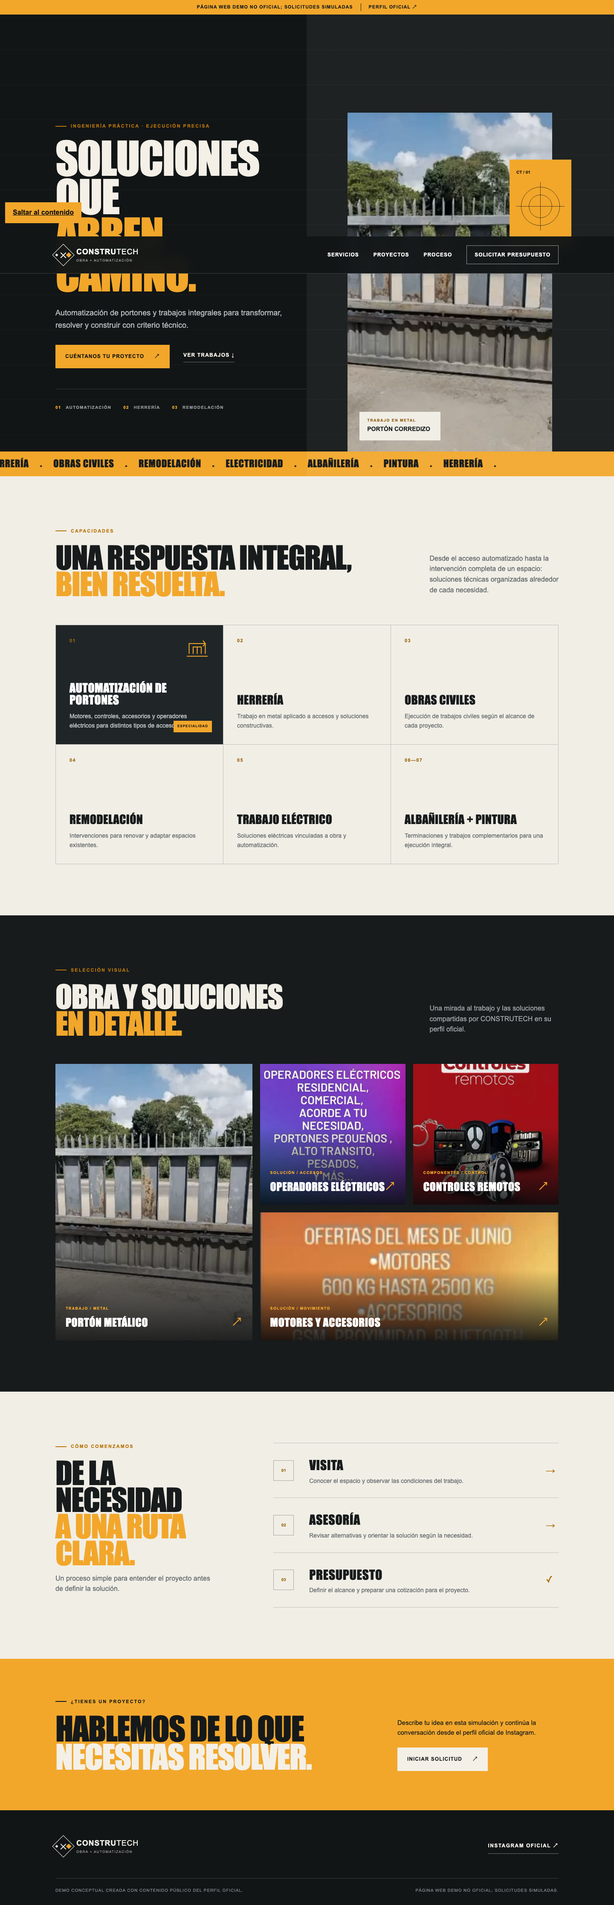
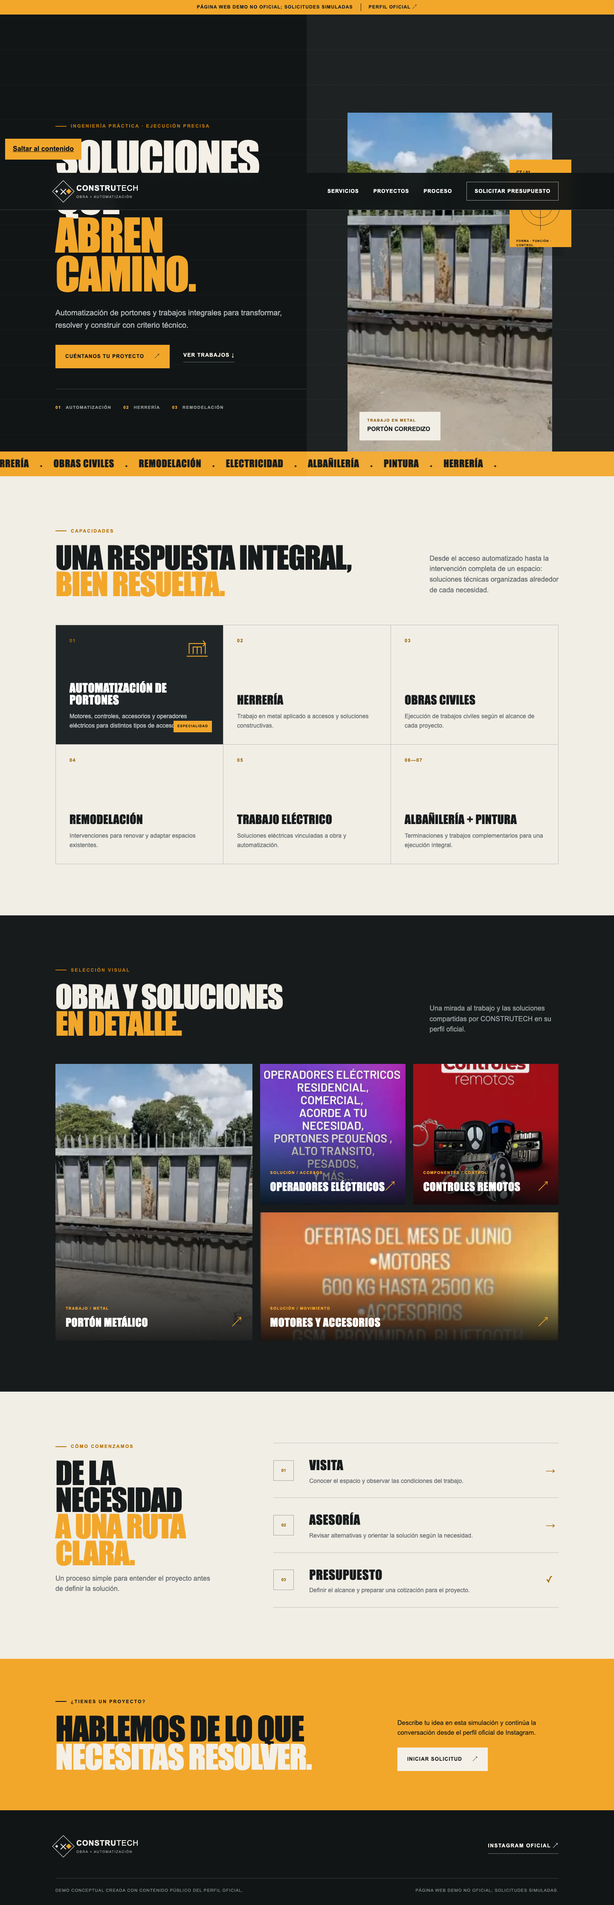
Refine industrial visual experience

Changed region(s): [[0.5625, 0.0934, 0.9375, 0.1557], [0.0, 0.0623, 0.3125, 0.1557]]

diff --git a/assets/css/styles.css b/assets/css/styles.css
@@ -1,3 +1,252 @@
-@font-face{font-family:system-condensed;src:local("Arial Narrow");font-stretch:condensed}*{box-sizing:border-box}html{scroll-behavior:smooth}body{margin:0;background:#f1eee6;color:#171b1c;font-family:Arial,Helvetica,sans-serif;font-size:16px;line-height:1.55}body.is-locked{overflow:hidden}button,input,textarea{font:inherit}button,a{color:inherit}button{cursor:pointer}.shell{width:min(1180px,calc(100% - 40px));margin-inline:auto}.skip-link{position:fixed;left:12px;top:-80px;z-index:200;background:#f2a72b;color:#111;padding:12px 18px;font-weight:800}.skip-link:focus{top:12px}.demo-notice{height:34px;background:#f2a72b;color:#171b1c;display:flex;align-items:center;justify-content:center;gap:18px;padding:0 18px;font-size:11px;font-weight:800;letter-spacing:.08em;text-transform:uppercase}.demo-notice a{border-left:1px solid #171b1c;padding-left:18px;text-decoration:none}.site-header{position:absolute;top:34px;left:0;right:0;z-index:40;color:#fff;border-bottom:1px solid rgba(255,255,255,.18)}.site-header.is-scrolled{position:fixed;top:0;background:rgba(17,21,22,.96);backdrop-filter:blur(12px)}.nav-wrap{height:86px;display:flex;align-items:center;justify-content:space-between}.brand{display:inline-flex;align-items:center;gap:12px;text-decoration:none;font-size:18px;font-weight:300;letter-spacing:.04em}.brand b{font-weight:900}.brand small{display:block;font-size:8px;letter-spacing:.18em;opacity:.58}.brand-mark{position:relative;width:37px;height:37px;border:1px solid currentColor;display:grid;place-items:center;transform:rotate(45deg)}.brand-mark:before,.brand-mark:after,.brand-mark i{content:"";position:absolute;background:currentColor}.brand-mark:before{width:18px;height:2px}.brand-mark:after{width:2px;height:18px}.brand-mark i:first-child{width:9px;height:9px;background:#f2a72b;right:4px;top:4px}.brand-mark i:last-child{width:5px;height:5px;left:4px;bottom:4px}.main-nav{display:flex;align-items:center;gap:34px}.main-nav>a{text-decoration:none;font-size:12px;font-weight:800;letter-spacing:.08em;text-transform:uppercase;position:relative}.main-nav>a:after{content:"";position:absolute;left:0;right:100%;bottom:-8px;height:2px;background:#f2a72b;transition:right .25s}.main-nav>a:hover:after{right:0}.menu-toggle{display:none;background:none;border:0;color:inherit}.btn{display:inline-flex;justify-content:center;align-items:center;gap:24px;border:1px solid transparent;text-decoration:none;font-size:12px;font-weight:900;letter-spacing:.08em;text-transform:uppercase;padding:17px 22px;transition:transform .2s,background .2s,color .2s,border-color .2s}.btn:hover{transform:translateY(-2px)}.btn-small{padding:12px 18px}.btn-outline{background:transparent;border-color:rgba(255,255,255,.55);color:#fff}.btn-outline:hover{border-color:#f2a72b;color:#f2a72b}.btn-primary{background:#f2a72b;color:#111}.btn-primary:hover{background:#ffba46}.btn-light{background:#f4f0e7;color:#171b1c}.btn-light:hover{background:#fff}.eyebrow{font-size:11px;font-weight:900;letter-spacing:.18em;text-transform:uppercase;color:#b9740b;margin:0 0 22px;display:flex;align-items:center;gap:10px}.eyebrow:before{content:"";width:26px;height:2px;background:currentColor}.hero{position:relative;background:#111516;color:#f4f0e7;overflow:hidden}.hero:before{content:"";position:absolute;inset:0;background:linear-gradient(90deg,transparent 49.9%,rgba(255,255,255,.055) 50%),linear-gradient(rgba(255,255,255,.035) 1px,transparent 1px);background-size:100% 100%,100% 82px;pointer-events:none}.hero-grid{min-height:770px;padding-top:165px;display:grid;grid-template-columns:54% 46%;position:relative}.hero-copy{padding:88px 48px 95px 0;position:relative;z-index:2}.hero h1,.section-head h2,.process-intro h2,.cta-section h2{margin:0;font-family:Impact,system-condensed,sans-serif;font-size:clamp(56px,7.2vw,104px);line-height:.87;letter-spacing:-.025em;text-transform:uppercase;font-weight:800}.hero h1 em,.section-head h2 em,.process-intro h2 em,.cta-section h2 em{color:#f2a72b;font-style:normal}.hero-lead{max-width:610px;font-size:18px;line-height:1.6;color:#b9bec0;margin:32px 0}.hero-actions{display:flex;align-items:center;gap:32px}.text-link{font-size:12px;text-transform:uppercase;letter-spacing:.1em;font-weight:800;text-decoration:none;border-bottom:1px solid #656b6c;padding-bottom:6px}.hero-proof{list-style:none;padding:35px 0 0;margin:48px 0 0;border-top:1px solid rgba(255,255,255,.16);display:flex;gap:28px;font-size:10px;font-weight:800;letter-spacing:.12em;text-transform:uppercase;color:#919798}.hero-proof span{color:#f2a72b;margin-right:7px}.hero-visual{position:relative;min-width:0}.hero-image{margin:0;position:absolute;inset:65px 15px 0 48px;overflow:hidden}.hero-image:after{content:"";position:absolute;inset:0;background:linear-gradient(180deg,rgba(17,21,22,.05),rgba(17,21,22,.18))}.hero-image img{width:100%;height:100%;object-fit:cover;filter:saturate(.72) contrast(1.08)}.hero-image figcaption{position:absolute;z-index:2;bottom:26px;left:28px;background:#f1eee6;color:#171b1c;padding:14px 18px;min-width:190px}.hero-image figcaption span{display:block;font-size:9px;font-weight:900;letter-spacing:.16em;text-transform:uppercase;color:#8d5b0f}.hero-image figcaption b{text-transform:uppercase;font-size:14px}.hero-tech{position:absolute;right:-30px;top:175px;width:145px;height:205px;background:#f2a72b;color:#111;padding:16px;z-index:3}.hero-tech>span{font-size:10px;font-weight:900}.hero-tech svg{width:100%;margin:12px 0;fill:none;stroke:currentColor;stroke-width:1}.hero-tech small{display:block;font-size:7px;letter-spacing:.12em;font-weight:900}.marquee{height:58px;background:#f2a72b;color:#171b1c;display:flex;align-items:center;overflow:hidden;font-family:Impact,system-condensed,sans-serif;font-size:23px;letter-spacing:.03em;white-space:nowrap}.marquee div{animation:marquee 24s linear infinite}.marquee i{font-style:normal;font-size:10px;margin:0 20px}@keyframes marquee{to{transform:translateX(-50%)}}.section{padding:120px 0}.section-head{display:grid;grid-template-columns:1.45fr .55fr;gap:80px;align-items:end;margin-bottom:64px}.section-head h2,.process-intro h2{font-size:clamp(46px,5vw,72px)}.section-head>p{margin:0 0 4px;color:#5f6668;max-width:430px}.service-grid{display:grid;grid-template-columns:repeat(3,1fr);border-top:1px solid #bfc0ba;border-left:1px solid #bfc0ba}.service-card{min-height:280px;padding:32px;border-right:1px solid #bfc0ba;border-bottom:1px solid #bfc0ba;position:relative;display:flex;flex-direction:column;justify-content:flex-end;transition:background .25s,color .25s}.service-card:hover{background:#202628;color:#f1eee6}.service-card h3{font-family:Impact,system-condensed,sans-serif;text-transform:uppercase;font-size:28px;letter-spacing:.01em;line-height:1;margin:0 0 14px}.service-card p{margin:0;color:#656b6c;font-size:14px}.service-card:hover p{color:#bfc3c4}.service-no{position:absolute;top:28px;left:32px;color:#9b670f;font-weight:900;font-size:11px;letter-spacing:.12em}.service-featured{background:#202628;color:#fff}.service-featured p{color:#bfc3c4}.service-icon{position:absolute;right:28px;top:24px;width:65px;color:#f2a72b}.service-icon svg{fill:none;stroke:currentColor;stroke-width:1.5}.card-tag{position:absolute;bottom:28px;right:26px;background:#f2a72b;color:#111;font-size:8px;font-weight:900;letter-spacing:.13em;text-transform:uppercase;padding:7px 9px}.section-dark{background:#171b1c;color:#f1eee6}.section-head.light>p{color:#9fa5a7}.project-grid{display:grid;grid-template-columns:1.15fr .85fr .85fr;grid-template-rows:330px 300px;gap:18px}.project-card{border:0;padding:0;position:relative;overflow:hidden;background:#252b2c;text-align:left;color:#fff}.project-card img{width:100%;height:100%;object-fit:cover;filter:saturate(.65) contrast(1.05);transition:transform .6s,filter .3s}.project-card:after{content:"";position:absolute;inset:0;background:linear-gradient(180deg,transparent 45%,rgba(8,10,11,.88));transition:background .3s}.project-card:hover img{transform:scale(1.045);filter:saturate(.9)}.project-large{grid-row:span 2}.project-wide{grid-column:span 2}.project-wide img{object-position:center 41%}.project-overlay{position:absolute;z-index:2;left:24px;right:24px;bottom:22px}.project-overlay small{display:block;color:#f2a72b;font-size:9px;letter-spacing:.15em;font-weight:900;margin-bottom:5px}.project-overlay b{font-family:Impact,system-condensed,sans-serif;font-size:26px;text-transform:uppercase;letter-spacing:.02em}.project-overlay i{float:right;font-style:normal;font-size:24px;color:#f2a72b}.process-layout{display:grid;grid-template-columns:.75fr 1.25fr;gap:110px}.process-intro>p:last-child{color:#62696b;max-width:380px}.process-steps{list-style:none;padding:0;margin:0;border-top:1px solid #c5c3bc}.process-steps li{display:grid;grid-template-columns:58px 1fr 30px;gap:26px;align-items:center;border-bottom:1px solid #c5c3bc;padding:28px 0}.process-steps li>span{width:48px;height:48px;border:1px solid #a7a69f;display:grid;place-items:center;font-size:10px;font-weight:900;color:#9b670f}.process-steps h3{margin:0 0 3px;font-family:Impact,system-condensed,sans-serif;font-size:30px;text-transform:uppercase;letter-spacing:.02em}.process-steps p{margin:0;color:#666b6d;font-size:14px}.process-steps i{font-style:normal;color:#ad710e;font-size:22px}.cta-section{background:#f2a72b;color:#15191a;padding:92px 0}.cta-grid{display:grid;grid-template-columns:1.3fr .7fr;gap:100px;align-items:end}.cta-section .eyebrow{color:#15191a}.cta-section h2{font-size:clamp(46px,5.4vw,76px)}.cta-section h2 em{color:#f4f0e7}.cta-action p{font-size:15px;margin:0 0 24px}.site-footer{background:#111516;color:#f1eee6;padding:64px 0 26px}.footer-top,.footer-bottom{display:flex;align-items:center;justify-content:space-between}.instagram-link{font-weight:900;text-transform:uppercase;font-size:12px;letter-spacing:.12em;text-decoration:none;border-bottom:1px solid #6e7475;padding:8px 0}.footer-bottom{margin-top:55px;padding-top:20px;border-top:1px solid #383d3e;color:#818789;font-size:10px;text-transform:uppercase;letter-spacing:.09em}.footer-bottom p{margin:0}.project-dialog,.quote-dialog{width:min(940px,calc(100% - 32px));max-height:calc(100vh - 32px);padding:0;border:0;background:#f1eee6;color:#171b1c;box-shadow:0 35px 100px rgba(0,0,0,.45)}dialog::backdrop{background:rgba(7,9,10,.82);backdrop-filter:blur(5px)}.project-dialog[open]{display:grid;grid-template-columns:1fr 1fr}.dialog-media{min-height:620px;background:#222}.dialog-media img{width:100%;height:100%;object-fit:cover}.dialog-copy{padding:75px 56px;align-self:center}.dialog-copy h2,.quote-head h2{font-family:Impact,system-condensed,sans-serif;text-transform:uppercase;font-size:52px;line-height:.95;margin:0 0 24px}.dialog-copy>p:not(.eyebrow){color:#62696b;margin-bottom:34px}.dialog-close{position:absolute;z-index:3;right:14px;top:14px;border:0;width:42px;height:42px;background:#171b1c;color:#fff;font-size:28px;line-height:1}.quote-dialog{max-width:720px;padding:54px}.quote-head{padding-right:40px}.quote-head h2{font-size:44px}.quote-head>p:last-child{color:#62696b;margin-bottom:24px}.form-progress{height:3px;background:#d2d0c9;margin:24px 0 34px}.form-progress span{display:block;height:100%;width:33.33%;background:#f2a72b;transition:width .3s}.form-step{display:none}.form-step.is-active{display:block}fieldset{border:0;padding:0;margin:0}legend{font-family:Impact,system-condensed,sans-serif;text-transform:uppercase;font-size:25px;margin-bottom:15px}.choice-grid{display:grid;grid-template-columns:1fr 1fr;gap:10px}.choice-grid label{position:relative}.choice-grid input{position:absolute;opacity:0}.choice-grid label span{display:block;border:1px solid #bfc0ba;padding:16px;min-height:82px;font-size:14px;font-weight:900;cursor:pointer;transition:.2s}.choice-grid small{display:block;font-weight:400;color:#6a7071;margin-top:4px}.choice-grid input:checked+span{background:#1c2223;color:#fff;border-color:#1c2223}.choice-grid input:checked+span small{color:#bfc3c4}.choice-grid input:focus-visible+span{outline:3px solid #f2a72b;outline-offset:2px}.form-next{margin-top:20px;float:right}.quote-form label[for]{display:block;font-weight:900;margin-bottom:8px}.quote-form textarea{width:100%;resize:vertical;border:1px solid #aaa;background:#fff;padding:15px;outline:none}.quote-form textarea:focus{border-color:#9b670f;box-shadow:0 0 0 2px #f2a72b}.form-meta{display:flex;justify-content:space-between;color:#6c7274}.form-error{min-height:20px;color:#a43b24;font-weight:700;font-size:12px;margin:8px 0}.form-nav{display:flex;justify-content:space-between;align-items:center;margin-top:18px}.text-button{border:0;background:none;font-weight:800;font-size:12px;text-transform:uppercase;letter-spacing:.08em}.review-card{background:#fff;border-left:4px solid #f2a72b;padding:22px}.review-card small{color:#9b670f;font-weight:900;letter-spacing:.12em}.review-card h3{font-family:Impact,system-condensed,sans-serif;text-transform:uppercase;font-size:28px;margin:8px 0}.review-card p{margin:0;color:#5f6668;white-space:pre-wrap}.privacy-note{font-size:12px;color:#676d6f;margin:18px 0}.reveal{animation:rise .65s both}.reveal:nth-child(2){animation-delay:.08s}.reveal:nth-child(3){animation-delay:.16s}.reveal:nth-child(4){animation-delay:.24s}.reveal:nth-child(5){animation-delay:.32s}@keyframes rise{from{opacity:0;transform:translateY(24px)}}:focus-visible{outline:3px solid #f2a72b;outline-offset:4px}@media(prefers-reduced-motion:reduce){*,*:before,*:after{scroll-behavior:auto!important;animation:none!important;transition:none!important}}
-@media(max-width:900px){.main-nav{gap:18px}.hero-grid{grid-template-columns:1fr;min-height:auto;padding-top:150px}.hero-copy{padding:55px 0 40px}.hero-visual{height:560px}.hero-image{inset:0 40px 0 14%}.hero-tech{right:0;top:70px}.hero-proof{max-width:620px}.section{padding:90px 0}.section-head{grid-template-columns:1fr;gap:24px}.service-grid{grid-template-columns:repeat(2,1fr)}.project-grid{grid-template-columns:1fr 1fr;grid-template-rows:480px 300px 280px}.project-large{grid-row:auto;grid-column:span 2}.project-wide{grid-column:span 2}.process-layout,.cta-grid{grid-template-columns:1fr;gap:48px}.process-steps{max-width:720px}.project-dialog[open]{grid-template-columns:.9fr 1.1fr}.dialog-media{min-height:560px}}
-@media(max-width:680px){.shell{width:min(100% - 28px,1180px)}.demo-notice{height:auto;min-height:36px;justify-content:space-between;font-size:8px;gap:8px}.demo-notice a{padding-left:8px;white-space:nowrap}.site-header{top:36px}.nav-wrap{height:72px}.brand{font-size:15px}.brand-mark{width:31px;height:31px}.menu-toggle{display:block;width:44px;height:44px;position:relative}.menu-toggle span{position:absolute;left:8px;right:8px;height:2px;background:currentColor;top:17px;transition:.2s}.menu-toggle span:last-child{top:26px}.menu-toggle[aria-expanded="true"] span:first-child{transform:translateY(4px) rotate(45deg)}.menu-toggle[aria-expanded="true"] span:last-child{transform:translateY(-5px) rotate(-45deg)}.main-nav{display:none;position:absolute;top:72px;left:-14px;right:-14px;padding:24px 20px;background:#111516;flex-direction:column;align-items:stretch;border-top:1px solid #333}.main-nav.is-open{display:flex}.main-nav>a{padding:9px 2px}.hero-grid{padding-top:123px}.hero-copy{padding-top:44px}.hero h1{font-size:clamp(52px,17vw,72px)}.hero-lead{font-size:16px}.hero-actions{align-items:stretch;flex-direction:column;gap:18px}.hero-actions .text-link{align-self:flex-start}.hero-proof{gap:12px;justify-content:space-between;margin-top:35px}.hero-proof li{display:flex;flex-direction:column}.hero-proof span{margin:0}.hero-visual{height:470px}.hero-image{inset:0 20px 0 0}.hero-tech{right:-8px;width:105px;height:160px;padding:10px}.hero-tech svg{margin:8px 0;width:85px}.section{padding:72px 0}.section-head{margin-bottom:38px}.section-head h2,.process-intro h2,.cta-section h2{font-size:45px}.service-grid{grid-template-columns:1fr}.service-card{min-height:220px}.project-grid{display:flex;overflow-x:auto;scroll-snap-type:x mandatory;margin-right:-14px;padding-right:14px;gap:12px}.project-card,.project-large,.project-wide{flex:0 0 82vw;height:490px;scroll-snap-align:center}.project-card:not(.project-large){height:420px}.process-layout{gap:36px}.process-steps li{grid-template-columns:44px 1fr 20px;gap:14px}.process-steps li>span{width:40px;height:40px}.process-steps h3{font-size:26px}.cta-section{padding:72px 0}.cta-grid{gap:32px}.footer-top,.footer-bottom{align-items:flex-start;flex-direction:column;gap:28px}.footer-bottom{gap:10px;margin-top:40px}.project-dialog[open]{display:block;overflow:auto}.dialog-media{height:43vh;min-height:300px}.dialog-copy{padding:38px 24px}.dialog-copy h2{font-size:38px}.quote-dialog{padding:48px 20px 26px}.quote-head h2{font-size:36px}.choice-grid{grid-template-columns:1fr}.choice-grid label span{min-height:66px;padding:11px 13px}.form-nav{gap:12px}.form-nav .btn{padding:14px 12px;font-size:10px}.quote-dialog .dialog-close{right:8px;top:8px}}
+@font-face{font-family:system-condensed;src:local("Arial Narrow");font-stretch:condensed}
+*{box-sizing:border-box}
+html{scroll-behavior:smooth}
+body{margin:0;background:#f1eee6;color:#171b1c;font-family:Arial,Helvetica,sans-serif;font-size:16px;line-height:1.55}
+body.is-locked{overflow:hidden}
+button,input,textarea{font:inherit}
+button,a{color:inherit}
+button{cursor:pointer}
+.shell{width:min(1180px,calc(100% - 40px));margin-inline:auto}
+.skip-link{position:fixed;left:12px;top:-80px;z-index:200;background:#f2a72b;color:#111;padding:12px 18px;font-weight:800}
+.skip-link:focus{top:12px}
+.demo-notice{height:34px;background:#f2a72b;color:#171b1c;display:flex;align-items:center;justify-content:center;gap:18px;padding:0 18px;font-size:11px;font-weight:800;letter-spacing:.08em;text-transform:uppercase}
+.demo-notice a{border-left:1px solid #171b1c;padding-left:18px;text-decoration:none}
+.site-header{position:absolute;top:34px;left:0;right:0;z-index:40;color:#fff;border-bottom:1px solid rgba(255,255,255,.18)}
+.site-header.is-scrolled{position:fixed;top:0;background:rgba(17,21,22,.96);backdrop-filter:blur(12px)}
+.nav-wrap{height:86px;display:flex;align-items:center;justify-content:space-between}
+.brand{display:inline-flex;align-items:center;gap:12px;text-decoration:none;font-size:18px;font-weight:300;letter-spacing:.04em}
+.brand b{font-weight:900}
+.brand small{display:block;font-size:8px;letter-spacing:.18em;opacity:.58}
+.brand-mark{position:relative;width:37px;height:37px;border:1px solid currentColor;display:grid;place-items:center;transform:rotate(45deg)}
+.brand-mark:before,.brand-mark:after,.brand-mark i{content:"";position:absolute;background:currentColor}
+.brand-mark:before{width:18px;height:2px}
+.brand-mark:after{width:2px;height:18px}
+.brand-mark i:first-child{width:9px;height:9px;background:#f2a72b;right:4px;top:4px}
+.brand-mark i:last-child{width:5px;height:5px;left:4px;bottom:4px}
+.main-nav{display:flex;align-items:center;gap:34px}
+.main-nav>a{text-decoration:none;font-size:12px;font-weight:800;letter-spacing:.08em;text-transform:uppercase;position:relative}
+.main-nav>a:after{content:"";position:absolute;left:0;right:100%;bottom:-8px;height:2px;background:#f2a72b;transition:right .25s}
+.main-nav>a:hover:after{right:0}
+.menu-toggle{display:none;background:none;border:0;color:inherit}
+.btn{display:inline-flex;justify-content:center;align-items:center;gap:24px;border:1px solid transparent;text-decoration:none;font-size:12px;font-weight:900;letter-spacing:.08em;text-transform:uppercase;padding:17px 22px;transition:transform .2s,background .2s,color .2s,border-color .2s}
+.btn:hover{transform:translateY(-2px)}
+.btn-small{padding:12px 18px}
+.btn-outline{background:transparent;border-color:rgba(255,255,255,.55);color:#fff}
+.btn-outline:hover{border-color:#f2a72b;color:#f2a72b}
+.btn-primary{background:#f2a72b;color:#111}
+.btn-primary:hover{background:#ffba46}
+.btn-light{background:#f4f0e7;color:#171b1c}
+.btn-light:hover{background:#fff}
+.eyebrow{font-size:11px;font-weight:900;letter-spacing:.18em;text-transform:uppercase;color:#b9740b;margin:0 0 22px;display:flex;align-items:center;gap:10px}
+.eyebrow:before{content:"";width:26px;height:2px;background:currentColor}
+.hero{position:relative;background:#111516;color:#f4f0e7;overflow:hidden}
+.hero:before{content:"";position:absolute;inset:0;background:linear-gradient(90deg,transparent 49.9%,rgba(255,255,255,.055) 50%),linear-gradient(rgba(255,255,255,.035) 1px,transparent 1px);background-size:100% 100%,100% 82px;pointer-events:none}
+.hero-grid{min-height:770px;padding-top:165px;display:grid;grid-template-columns:54% 46%;position:relative}
+.hero-copy{padding:88px 48px 95px 0;position:relative;z-index:2}
+.hero h1,.section-head h2,.process-intro h2,.cta-section h2{margin:0;font-family:Impact,system-condensed,sans-serif;font-size:clamp(56px,7.2vw,104px);line-height:.87;letter-spacing:-.025em;text-transform:uppercase;font-weight:800}
+.hero h1 em,.section-head h2 em,.process-intro h2 em,.cta-section h2 em{color:#f2a72b;font-style:normal}
+.hero-lead{max-width:610px;font-size:18px;line-height:1.6;color:#b9bec0;margin:32px 0}
+.hero-actions{display:flex;align-items:center;gap:32px}
+.text-link{font-size:12px;text-transform:uppercase;letter-spacing:.1em;font-weight:800;text-decoration:none;border-bottom:1px solid #656b6c;padding-bottom:6px}
+.hero-proof{list-style:none;padding:35px 0 0;margin:48px 0 0;border-top:1px solid rgba(255,255,255,.16);display:flex;gap:28px;font-size:10px;font-weight:800;letter-spacing:.12em;text-transform:uppercase;color:#919798}
+.hero-proof span{color:#f2a72b;margin-right:7px}
+.hero-visual{position:relative;min-width:0}
+.hero-image{margin:0;position:absolute;inset:65px 15px 0 48px;overflow:hidden}
+.hero-image:after{content:"";position:absolute;inset:0;background:linear-gradient(180deg,rgba(17,21,22,.05),rgba(17,21,22,.18))}
+.hero-image img{width:100%;height:100%;object-fit:cover;filter:saturate(.72) contrast(1.08)}
+.hero-image figcaption{position:absolute;z-index:2;bottom:26px;left:28px;background:#f1eee6;color:#171b1c;padding:14px 18px;min-width:190px}
+.hero-image figcaption span{display:block;font-size:9px;font-weight:900;letter-spacing:.16em;text-transform:uppercase;color:#8d5b0f}
+.hero-image figcaption b{text-transform:uppercase;font-size:14px}
+.hero-tech{position:absolute;right:-30px;top:175px;width:145px;height:205px;background:#f2a72b;color:#111;padding:16px;z-index:3}
+.hero-tech>span{font-size:10px;font-weight:900}
+.hero-tech svg{width:100%;margin:12px 0;fill:none;stroke:currentColor;stroke-width:1}
+.hero-tech small{display:block;font-size:7px;letter-spacing:.12em;font-weight:900}
+.marquee{height:58px;background:#f2a72b;color:#171b1c;display:flex;align-items:center;overflow:hidden;font-family:Impact,system-condensed,sans-serif;font-size:23px;letter-spacing:.03em;white-space:nowrap}
+.marquee div{animation:marquee 24s linear infinite}
+.marquee i{font-style:normal;font-size:10px;margin:0 20px}
+@keyframes marquee{to{transform:translateX(-50%)}
+}
+.section{padding:120px 0}
+.section-head{display:grid;grid-template-columns:1.45fr .55fr;gap:80px;align-items:end;margin-bottom:64px}
+.section-head h2,.process-intro h2{font-size:clamp(46px,5vw,72px)}
+.section-head>p{margin:0 0 4px;color:#5f6668;max-width:430px}
+.service-grid{display:grid;grid-template-columns:repeat(3,1fr);border-top:1px solid #bfc0ba;border-left:1px solid #bfc0ba}
+.service-card{min-height:280px;padding:32px;border-right:1px solid #bfc0ba;border-bottom:1px solid #bfc0ba;position:relative;display:flex;flex-direction:column;justify-content:flex-end;transition:background .25s,color .25s}
+.service-card:hover{background:#202628;color:#f1eee6}
+.service-card h3{font-family:Impact,system-condensed,sans-serif;text-transform:uppercase;font-size:28px;letter-spacing:.01em;line-height:1;margin:0 0 14px}
+.service-card p{margin:0;color:#656b6c;font-size:14px}
+.service-card:hover p{color:#bfc3c4}
+.service-no{position:absolute;top:28px;left:32px;color:#9b670f;font-weight:900;font-size:11px;letter-spacing:.12em}
+.service-featured{background:#202628;color:#fff}
+.service-featured p{color:#bfc3c4}
+.service-icon{position:absolute;right:28px;top:24px;width:65px;color:#f2a72b}
+.service-icon svg{fill:none;stroke:currentColor;stroke-width:1.5}
+.card-tag{position:absolute;bottom:28px;right:26px;background:#f2a72b;color:#111;font-size:8px;font-weight:900;letter-spacing:.13em;text-transform:uppercase;padding:7px 9px}
+.section-dark{background:#171b1c;color:#f1eee6}
+.section-head.light>p{color:#9fa5a7}
+.project-grid{display:grid;grid-template-columns:1.15fr .85fr .85fr;grid-template-rows:330px 300px;gap:18px}
+.project-card{border:0;padding:0;position:relative;overflow:hidden;background:#252b2c;text-align:left;color:#fff}
+.project-card img{width:100%;height:100%;object-fit:cover;filter:saturate(.65) contrast(1.05);transition:transform .6s,filter .3s}
+.project-card:after{content:"";position:absolute;inset:0;background:linear-gradient(180deg,transparent 45%,rgba(8,10,11,.88));transition:background .3s}
+.project-card:hover img{transform:scale(1.045);filter:saturate(.9)}
+.project-large{grid-row:span 2}
+.project-wide{grid-column:span 2}
+.project-wide img{object-position:center 41%}
+.project-overlay{position:absolute;z-index:2;left:24px;right:24px;bottom:22px}
+.project-overlay small{display:block;color:#f2a72b;font-size:9px;letter-spacing:.15em;font-weight:900;margin-bottom:5px}
+.project-overlay b{font-family:Impact,system-condensed,sans-serif;font-size:26px;text-transform:uppercase;letter-spacing:.02em}
+.project-overlay i{float:right;font-style:normal;font-size:24px;color:#f2a72b}
+.process-layout{display:grid;grid-template-columns:.75fr 1.25fr;gap:110px}
+.process-intro>p:last-child{color:#62696b;max-width:380px}
+.process-steps{list-style:none;padding:0;margin:0;border-top:1px solid #c5c3bc}
+.process-steps li{display:grid;grid-template-columns:58px 1fr 30px;gap:26px;align-items:center;border-bottom:1px solid #c5c3bc;padding:28px 0}
+.process-steps li>span{width:48px;height:48px;border:1px solid #a7a69f;display:grid;place-items:center;font-size:10px;font-weight:900;color:#9b670f}
+.process-steps h3{margin:0 0 3px;font-family:Impact,system-condensed,sans-serif;font-size:30px;text-transform:uppercase;letter-spacing:.02em}
+.process-steps p{margin:0;color:#666b6d;font-size:14px}
+.process-steps i{font-style:normal;color:#ad710e;font-size:22px}
+.cta-section{background:#f2a72b;color:#15191a;padding:92px 0}
+.cta-grid{display:grid;grid-template-columns:1.3fr .7fr;gap:100px;align-items:end}
+.cta-section .eyebrow{color:#15191a}
+.cta-section h2{font-size:clamp(46px,5.4vw,76px)}
+.cta-section h2 em{color:#f4f0e7}
+.cta-action p{font-size:15px;margin:0 0 24px}
+.site-footer{background:#111516;color:#f1eee6;padding:64px 0 26px}
+.footer-top,.footer-bottom{display:flex;align-items:center;justify-content:space-between}
+.instagram-link{font-weight:900;text-transform:uppercase;font-size:12px;letter-spacing:.12em;text-decoration:none;border-bottom:1px solid #6e7475;padding:8px 0}
+.footer-bottom{margin-top:55px;padding-top:20px;border-top:1px solid #383d3e;color:#818789;font-size:10px;text-transform:uppercase;letter-spacing:.09em}
+.footer-bottom p{margin:0}
+.project-dialog,.quote-dialog{width:min(940px,calc(100% - 32px));max-height:calc(100vh - 32px);padding:0;border:0;background:#f1eee6;color:#171b1c;box-shadow:0 35px 100px rgba(0,0,0,.45)}
+dialog::backdrop{background:rgba(7,9,10,.82);backdrop-filter:blur(5px)}
+.project-dialog[open]{display:grid;grid-template-columns:1fr 1fr}
+.dialog-media{min-height:620px;background:#222}
+.dialog-media img{width:100%;height:100%;object-fit:cover}
+.dialog-copy{padding:75px 56px;align-self:center}
+.dialog-copy h2,.quote-head h2{font-family:Impact,system-condensed,sans-serif;text-transform:uppercase;font-size:52px;line-height:.95;margin:0 0 24px}
+.dialog-copy>p:not(.eyebrow){color:#62696b;margin-bottom:34px}
+.dialog-close{position:absolute;z-index:3;right:14px;top:14px;border:0;width:42px;height:42px;background:#171b1c;color:#fff;font-size:28px;line-height:1}
+.quote-dialog{max-width:720px;padding:54px}
+.quote-head{padding-right:40px}
+.quote-head h2{font-size:44px}
+.quote-head>p:last-child{color:#62696b;margin-bottom:24px}
+.form-progress{height:3px;background:#d2d0c9;margin:24px 0 34px}
+.form-progress span{display:block;height:100%;width:33.33%;background:#f2a72b;transition:width .3s}
+.form-step{display:none}
+.form-step.is-active{display:block}
+fieldset{border:0;padding:0;margin:0}
+legend{font-family:Impact,system-condensed,sans-serif;text-transform:uppercase;font-size:25px;margin-bottom:15px}
+.choice-grid{display:grid;grid-template-columns:1fr 1fr;gap:10px}
+.choice-grid label{position:relative}
+.choice-grid input{position:absolute;opacity:0}
+.choice-grid label span{display:block;border:1px solid #bfc0ba;padding:16px;min-height:82px;font-size:14px;font-weight:900;cursor:pointer;transition:.2s}
+.choice-grid small{display:block;font-weight:400;color:#6a7071;margin-top:4px}
+.choice-grid input:checked+span{background:#1c2223;color:#fff;border-color:#1c2223}
+.choice-grid input:checked+span small{color:#bfc3c4}
+.choice-grid input:focus-visible+span{outline:3px solid #f2a72b;outline-offset:2px}
+.form-next{margin-top:20px;float:right}
+.quote-form label[for]{display:block;font-weight:900;margin-bottom:8px}
+.quote-form textarea{width:100%;resize:vertical;border:1px solid #aaa;background:#fff;padding:15px;outline:none}
+.quote-form textarea:focus{border-color:#9b670f;box-shadow:0 0 0 2px #f2a72b}
+.form-meta{display:flex;justify-content:space-between;color:#6c7274}
+.form-error{min-height:20px;color:#a43b24;font-weight:700;font-size:12px;margin:8px 0}
+.form-nav{display:flex;justify-content:space-between;align-items:center;margin-top:18px}
+.text-button{border:0;background:none;font-weight:800;font-size:12px;text-transform:uppercase;letter-spacing:.08em}
+.review-card{background:#fff;border-left:4px solid #f2a72b;padding:22px}
+.review-card small{color:#9b670f;font-weight:900;letter-spacing:.12em}
+.review-card h3{font-family:Impact,system-condensed,sans-serif;text-transform:uppercase;font-size:28px;margin:8px 0}
+.review-card p{margin:0;color:#5f6668;white-space:pre-wrap}
+.privacy-note{font-size:12px;color:#676d6f;margin:18px 0}
+.reveal{animation:rise .65s both}
+.reveal:nth-child(2){animation-delay:.08s}
+.reveal:nth-child(3){animation-delay:.16s}
+.reveal:nth-child(4){animation-delay:.24s}
+.reveal:nth-child(5){animation-delay:.32s}
+@keyframes rise{from{opacity:0;transform:translateY(24px)}
+}
+:focus-visible{outline:3px solid #f2a72b;outline-offset:4px}
+@media(prefers-reduced-motion:reduce){*,*:before,*:after{scroll-behavior:auto!important;animation:none!important;transition:none!important}
+}
+
+@media(max-width:900px){.main-nav{gap:18px}
+.hero-grid{grid-template-columns:1fr;min-height:auto;padding-top:150px}
+.hero-copy{padding:55px 0 40px}
+.hero-visual{height:560px}
+.hero-image{inset:0 40px 0 14%}
+.hero-tech{right:0;top:70px}
+.hero-proof{max-width:620px}
+.section{padding:90px 0}
+.section-head{grid-template-columns:1fr;gap:24px}
+.service-grid{grid-template-columns:repeat(2,1fr)}
+.project-grid{grid-template-columns:1fr 1fr;grid-template-rows:480px 300px 280px}
+.project-large{grid-row:auto;grid-column:span 2}
+.project-wide{grid-column:span 2}
+.process-layout,.cta-grid{grid-template-columns:1fr;gap:48px}
+.process-steps{max-width:720px}
+.project-dialog[open]{grid-template-columns:.9fr 1.1fr}
+.dialog-media{min-height:560px}
+}
+
+@media(max-width:680px){.shell{width:min(100% - 28px,1180px)}
+.demo-notice{height:auto;min-height:36px;justify-content:space-between;font-size:8px;gap:8px}
+.demo-notice a{padding-left:8px;white-space:nowrap}
+.site-header{top:36px}
+.nav-wrap{height:72px}
+.brand{font-size:15px}
+.brand-mark{width:31px;height:31px}
+.menu-toggle{display:block;width:44px;height:44px;position:relative}
+.menu-toggle span{position:absolute;left:8px;right:8px;height:2px;background:currentColor;top:17px;transition:.2s}
+.menu-toggle span:last-child{top:26px}
+.menu-toggle[aria-expanded="true"] span:first-child{transform:translateY(4px) rotate(45deg)}
+.menu-toggle[aria-expanded="true"] span:last-child{transform:translateY(-5px) rotate(-45deg)}
+.main-nav{display:none;position:absolute;top:72px;left:-14px;right:-14px;padding:24px 20px;background:#111516;flex-direction:column;align-items:stretch;border-top:1px solid #333}
+.main-nav.is-open{display:flex}
+.main-nav>a{padding:9px 2px}
+.hero-grid{padding-top:123px}
+.hero-copy{padding-top:44px}
+.hero h1{font-size:clamp(52px,17vw,72px)}
+.hero-lead{font-size:16px}
+.hero-actions{align-items:stretch;flex-direction:column;gap:18px}
+.hero-actions .text-link{align-self:flex-start}
+.hero-proof{gap:12px;justify-content:space-between;margin-top:35px}
+.hero-proof li{display:flex;flex-direction:column}
+.hero-proof span{margin:0}
+.hero-visual{height:470px}
+.hero-image{inset:0 20px 0 0}
+.hero-tech{right:-8px;width:105px;height:160px;padding:10px}
+.hero-tech svg{margin:8px 0;width:85px}
+.section{padding:72px 0}
+.section-head{margin-bottom:38px}
+.section-head h2,.process-intro h2,.cta-section h2{font-size:45px}
+.service-grid{grid-template-columns:1fr}
+.service-card{min-height:220px}
+.project-grid{display:flex;overflow-x:auto;scroll-snap-type:x mandatory;margin-right:-14px;padding-right:14px;gap:12px}
+.project-card,.project-large,.project-wide{flex:0 0 82vw;height:490px;scroll-snap-align:center}
+.project-card:not(.project-large){height:420px}
+.process-layout{gap:36px}
+.process-steps li{grid-template-columns:44px 1fr 20px;gap:14px}
+.process-steps li>span{width:40px;height:40px}
+.process-steps h3{font-size:26px}
+.cta-section{padding:72px 0}
+.cta-grid{gap:32px}
+.footer-top,.footer-bottom{align-items:flex-start;flex-direction:column;gap:28px}
+.footer-bottom{gap:10px;margin-top:40px}
+.project-dialog[open]{display:block;overflow:auto}
+.dialog-media{height:43vh;min-height:300px}
+.dialog-copy{padding:38px 24px}
+.dialog-copy h2{font-size:38px}
+.quote-dialog{padding:48px 20px 26px}
+.quote-head h2{font-size:36px}
+.choice-grid{grid-template-columns:1fr}
+.choice-grid label span{min-height:66px;padding:11px 13px}
+.form-nav{gap:12px}
+.form-nav .btn{padding:14px 12px;font-size:10px}
+.quote-dialog .dialog-close{right:8px;top:8px}
+}
+
+/* Premium polish: the first frame is complete, with crisper industrial photography. */
+.hero .reveal{animation:none}
+.hero h1{max-width:8.5ch;text-wrap:balance}
+.hero-image img{filter:saturate(.88) contrast(1.1)}
+.hero-tech{box-shadow:-18px 20px 0 rgba(17,21,22,.2)}
+.service-card,.project-card{transition:transform .25s ease,box-shadow .25s ease}
+.service-card:hover,.project-card:hover{transform:translateY(-4px);box-shadow:0 18px 42px rgba(17,21,22,.13)}
+@media(max-width:650px){.hero h1{max-width:7.2ch}.hero-tech{box-shadow:-10px 12px 0 rgba(17,21,22,.18)}}
